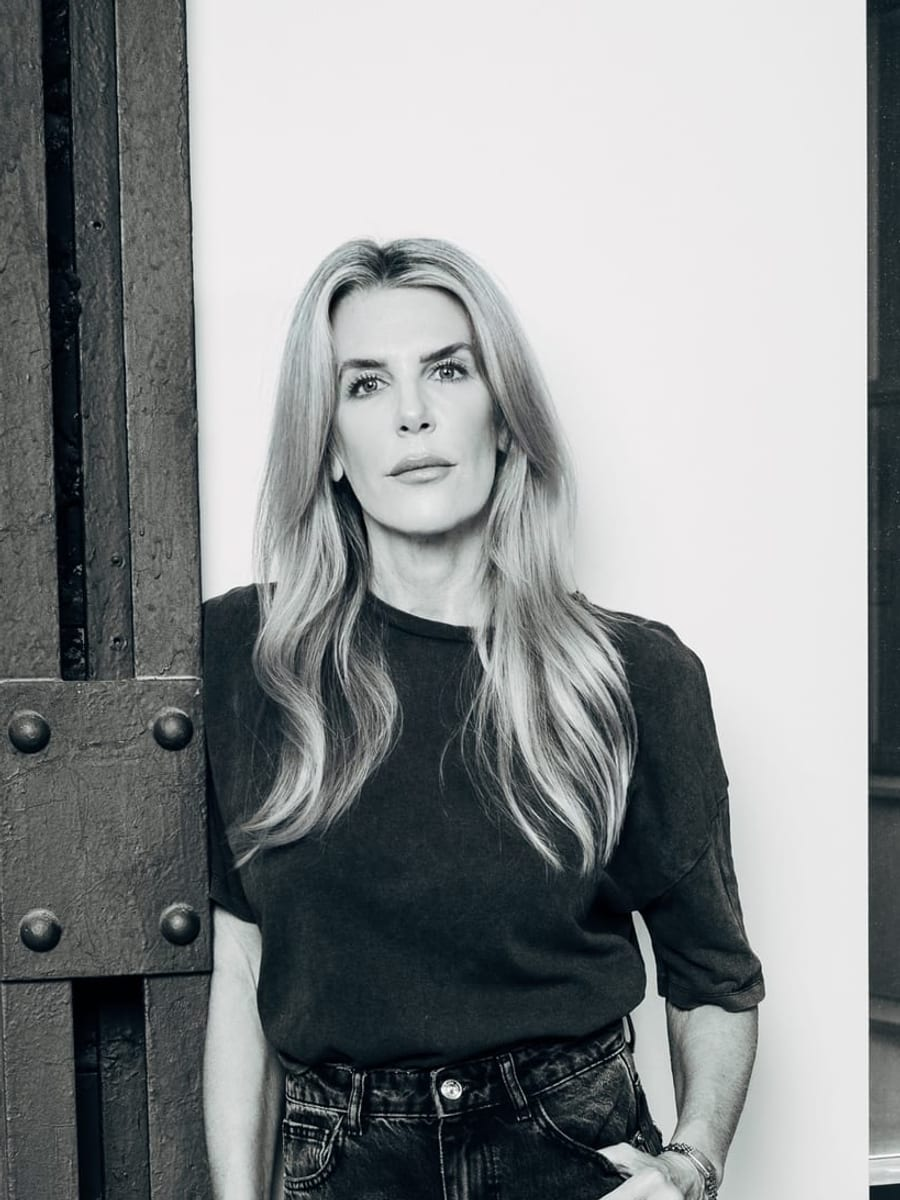
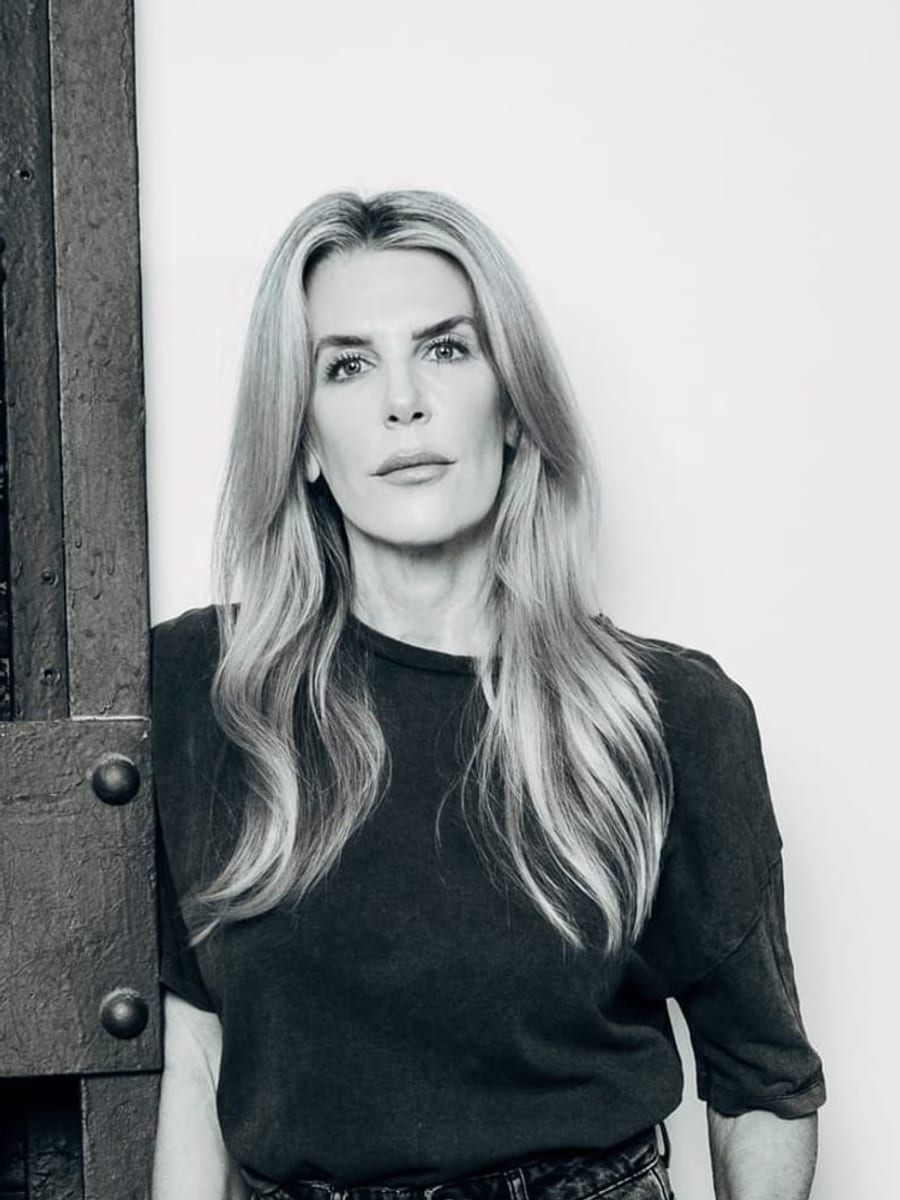
Team-Fotos: Kopfgrößen nachjustiert (Wolfram 21.07., 2. Runde)
- Heike Lutzer +20 %, Matthäus Jaworek +20 %, Marcus Wolter +15 % (Kopf um den
  Kinnpunkt aus dem vorigen Crop gezoomt)
- Aylin Firat +10 % und höher gesetzt (mehr Körper unten)
- Michael Laegel −15 % und auf die Leader-Kinnlinie gehoben (frisch aus dem Original)
- Simone Lenzen unverändert (Original ist enger Close-up, bereits am Minimum)

diff --git a/src/data/leadership.ts b/src/data/leadership.ts
@@ -24,8 +24,9 @@ export const LEADERSHIP: Leader[] = [
   // ── Leader-Reihe (Index 0–2) ──────────────────────────────────────────────
   // Echtes Portrait (Wolfram 21.07.) — löst den Platzhalter lead-1.jpg ab (den Janine
   // Berns weiter trägt). Quelle assets/People/Marcus.JPG (3804×5706, Ganzkörper), auf die
-  // LEADER-Kachel (1.207 Querformat) beschnitten wie Michael Laegel: extract(920,972,2261,3015)
-  // → Kopf + Kinn fluchten im Kachel-Band mit Laegel (~42 %). Fokuswert 14 % (s. Founders FOCUS).
+  // LEADER-Kachel (1.207 Querformat) beschnitten. Fokuswert 14 % (s. Founders FOCUS).
+  // Nachskaliert (Wolfram 21.07., 2. Runde): Kopf +15 % (aus dem vorigen 900×1200-Crop
+  // um den Kinnpunkt gezoomt) → näher an Knut.
   { name: "Marcus Wolter", role: "CEO", img: "/people/marcus-wolter.jpg" },
   { name: "Knut Kremling", role: "COO", img: "/people/knut-kremling.jpg" },
   // Echtes Portrait (Wolfram 17.07.) — löst den Platzhalter lead-3.jpg ab.
@@ -34,8 +35,9 @@ export const LEADERSHIP: Leader[] = [
   // einem 0.75-Hochformat bleiben dort nur 55 % der Bildhöhe stehen (statt 73 %). Ein
   // 32 %-Kopf wie bei den anderen wäre hier auf 58 % der Kachelhöhe aufgeblasen worden.
   // Daher Kopf = 24 % der Ausschnitthöhe → 24/0.55 = 43,6 % der Kachel, das entspricht
-  // Knut (~43 %). Ausschnitt 4200×5600 ab 218,0 (Kopf oben 570, Kinn 1914,
-  // Gesichtsmitte x 2318). top auf 0 geklemmt, weil der Kopf nah am oberen Rand sitzt.
+  // Knut (~43 %). Nachskaliert (Wolfram 21.07., 2. Runde): Kopf −15 % + auf die Leader-
+  // Kinnlinie (~49 % der Kachel) gehoben — frisch aus assets/People/Michael Laegel.jpg
+  // (4912×7360) beschnitten: extract(839,1629,2283,3043).
   { name: "Michael Laegel", role: "CFO", img: "/people/michael-laegel.jpg" },
 
   // ── Mittlere Reihe (Index 3–7) ────────────────────────────────────────────
@@ -51,7 +53,8 @@ export const LEADERSHIP: Leader[] = [
   // Kopf bleibt bei ~40 % (kleiner geht physikalisch nicht), sitzt jetzt aber höher.
   { name: "Simone Lenzen", role: "Director Communications", img: "/people/simone-lenzen.jpg" },
   // POSITIONEN GETAUSCHT (Wolfram 21.07.): Heike vor Natali.
-  // heike-lutzer.jpg: aus dem vorigen Crop höher gerückt (~30 %, Kinn auf der Linie).
+  // heike-lutzer.jpg: höher gerückt, dann Kopf +20 % (Wolfram 21.07., 2. Runde — um den
+  // Kinnpunkt aus dem vorigen 900×1200-Crop gezoomt).
   { name: "Heike Lutzer", role: "Director Marketing & Design", img: "/people/heike-lutzer.jpg" },
   // natali-naso.jpg: aus dem vorigen Crop höher + größer nachgeschärft (~31 %, war ~28 %).
   { name: "Natali Naso", role: "Director Human Resources", img: "/people/natali-naso.jpg" },
@@ -87,9 +90,9 @@ export const LEADERSHIP: Leader[] = [
   {
     // Neues Portrait (Wolfram 21.07.) — löst die vorige Fassung ab. Quelle
     // assets/People/Matthaeus.jpg (4912×7360, Ganzkörper an Industrie-Wand). Beschnitten
-    // nach der Kopf-Normalisierung 21.07. (wie die mittlere Reihe): Kopf ~29 % der
-    // Ausschnitthöhe, Kinn auf Output-Zeile 559 → fluchtet mit Sebastian Menge in der
-    // unteren Reihe. Ausschnitt extract(557,1018,2257,3009), Gesichtsmitte x ~1685.
+    // nach der Kopf-Normalisierung 21.07. (wie die mittlere Reihe): Kinn auf der Linie,
+    // fluchtet mit Sebastian Menge. Nachskaliert (Wolfram 21.07., 2. Runde): Kopf +20 %
+    // (um den Kinnpunkt aus dem vorigen 900×1200-Crop gezoomt).
     name: "Matthaeus Jaworek",
     role: "Director Financial Planning, Reporting & Controlling",
     img: "/people/matthaeus-jaworek.jpg",
@@ -99,7 +102,8 @@ export const LEADERSHIP: Leader[] = [
   // Männer je einen Index nach vorn.
   // Quelle: assets/People/Aylin.jpg (4024×6048; vormals „2026_07 Banijay _ Nick Harwart-
   // 9572-2.jpg" — Nick Harwart ist der Fotograf, nicht die abgebildete Person).
-  // Kopf-Normalisierung 21.07. (2. Fassung): extract(208,519,3243,4324) → Kopf ~33 %
-  // (verkleinert), höher gerückt, Kinn auf der Reihen-Linie.
+  // Kopf-Normalisierung 21.07.: verkleinert, höher gerückt. Nachjustiert (Wolfram 21.07.,
+  // 2. Runde): Kopf +10 % UND nochmal höher gesetzt (um den Kinnpunkt gezoomt + Fenster
+  // nach unten verschoben, sodass mehr Körper unten steht).
   { name: "Aylin Firat", role: "Personal Assistant to CEO", img: "/people/aylin-firat.jpg" },
 ];
